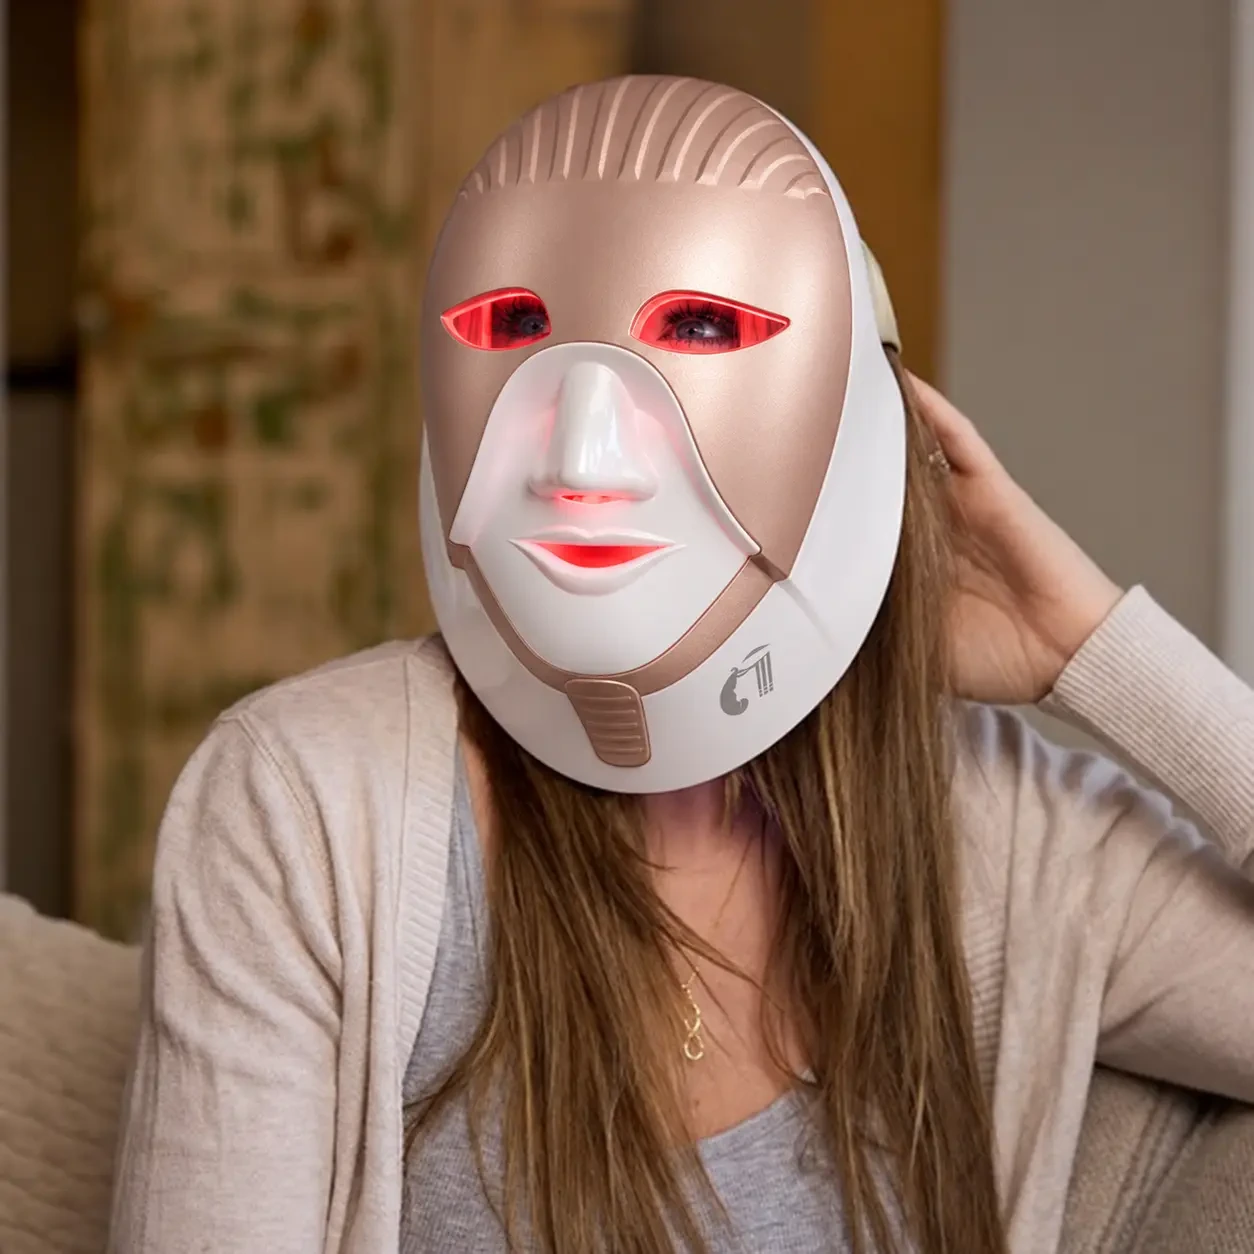
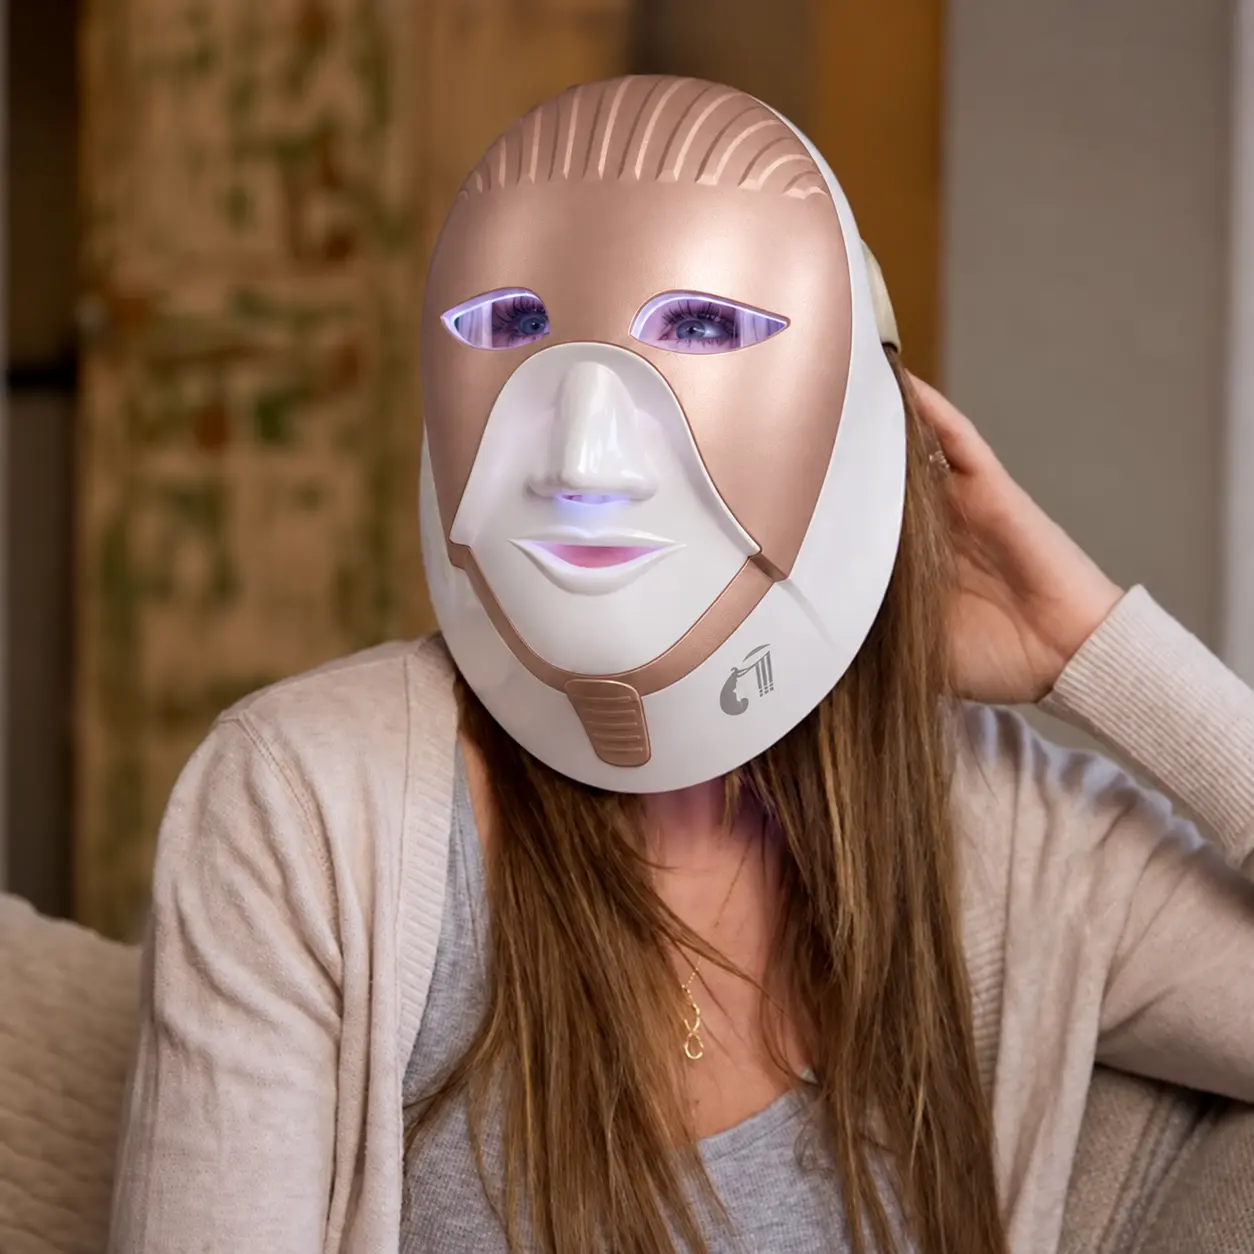
feat: add product components, data, and asset for LED mask showcase

diff --git a/src/data/products.ts b/src/data/products.ts
@@ -100,18 +100,8 @@ export const buudyMask: Product = {
       alt: "Buudy 7 Colour LED Face Mask worn at home in red light therapy mode for anti-ageing in the UK",
       badge: {
         title: "FULL FACE & NECK\nCOVERAGE",
-        sub: "Targeted firming & smoothing for jawline & neck",
+        sub: "Targeted firming & smoothing\nfor jawline & neck",
         position: "bottom-right",
-        theme: "white",
-      },
-    },
-    {
-      src: productAsset("buudy-7-colour-led-mask-with-free-red-light-torch-uk.webp"),
-      alt: "Buudy 7 Colour LED Face Mask with included complimentary Red Light Torch treatment UK",
-      badge: {
-        title: "FREE BUUDY\nLED TORCH",
-        sub: "£70 targeted red light device included free with your order",
-        position: "top-left",
         theme: "white",
       },
     },
@@ -124,17 +114,27 @@ export const buudyMask: Product = {
       alt: "Buudy 7 Colour LED Face Mask 7 clinical light wavelengths and modes video showcase UK",
       badge: {
         title: "7 CLINICAL\nWAVELENGTHS",
-        sub: "Complete spectrum for rejuvenation, clarity & glow",
+        sub: "Complete spectrum for\nrejuvenation, clarity & glow",
         position: "bottom-left",
         theme: "white",
       },
     },
     {
-      src: productAsset("07-buudy-led-mask-controller.webp"),
-      alt: "Buudy LED Mask tap controller",
+      src: productAsset("buudy-7-colour-led-mask-with-free-red-light-torch-uk.webp"),
+      alt: "Buudy 7 Colour LED Face Mask with included complimentary Red Light Torch treatment UK",
       badge: {
-        title: "SMART BUUDY\nAPP COMPANION",
-        sub: "Personalised guided routines & progress tracking",
+        title: "FREE BUUDY\nLED TORCH",
+        sub: "£70 targeted red light device\nincluded free with your order",
+        position: "top-left",
+        theme: "white",
+      },
+    },
+    {
+      src: productAsset("buudy_purple.jpeg"),
+      alt: "Buudy 7 Colour LED Face Mask with 192 high-density clinical LEDs across face and neck UK",
+      badge: {
+        title: "192 HIGH-DENSITY\nCLINICAL LEDS",
+        sub: "Maximum coverage & optical\npower across face & neck",
         position: "top-left",
         theme: "white",
       },
@@ -144,7 +144,7 @@ export const buudyMask: Product = {
       alt: "Buudy LED Mask side profile",
       badge: {
         title: "100% CORDLESS &\nPORTABLE",
-        sub: "Hands-free cordless design to read, relax & multitask",
+        sub: "Hands-free cordless design\nto read, relax & multitask",
         position: "bottom-left",
         theme: "white",
       },
@@ -154,17 +154,17 @@ export const buudyMask: Product = {
       alt: "Buudy 7 Colour LED Face Mask dermatologist recommended for skin rejuvenation in the UK",
       badge: {
         title: "DERMATOLOGIST\nRECOMMENDED",
-        sub: "Expert-approved non-invasive skincare for all skin types",
+        sub: "Expert-approved skincare\nfor all skin types",
         position: "bottom-right",
         theme: "white",
       },
     },
     {
-      src: productAsset("buudy_purple.jpeg"),
-      alt: "Buudy 7 Colour LED Face Mask with 192 high-density clinical LEDs across face and neck UK",
+      src: productAsset("07-buudy-led-mask-controller.webp"),
+      alt: "Buudy LED Mask tap controller",
       badge: {
-        title: "192 HIGH-DENSITY\nCLINICAL LEDS",
-        sub: "Maximum coverage & optical power across face & neck",
+        title: "SMART BUUDY\nAPP COMPANION",
+        sub: "Personalised guided routines\n& progress tracking",
         position: "top-left",
         theme: "white",
       },
@@ -178,7 +178,7 @@ export const buudyMask: Product = {
       alt: "Buudy LED Mask blue light acne mode",
       badge: {
         title: "415NM TARGETED\nBLUE LIGHT",
-        sub: "Purifies active blemishes & eliminates acne bacteria",
+        sub: "Purifies active blemishes\n& eliminates acne bacteria",
         position: "bottom-left",
         theme: "white",
       },
@@ -188,7 +188,7 @@ export const buudyMask: Product = {
       alt: "Buudy LED Mask packaging",
       badge: {
         title: "830NM DEEP NEAR\nINFRARED LIGHT",
-        sub: "Deep dermal penetration boosts collagen & elasticity",
+        sub: "Deep dermal penetration\nboosts collagen & elasticity",
         position: "top-left",
         theme: "white",
       },
@@ -206,7 +206,7 @@ export const buudyMask: Product = {
       alt: "Buudy LED Mask anti-ageing mode",
       badge: {
         title: "FAST 3-MIN\nTREATMENTS",
-        sub: "Green light helps fade dark spots & evens skin tone",
+        sub: "Green light helps fade dark\nspots & evens skin tone",
         position: "top-left",
         theme: "white",
       },
@@ -216,7 +216,7 @@ export const buudyMask: Product = {
       alt: "Buudy LED Mask results",
       badge: {
         title: "PROVEN CLINICAL\nRESULTS",
-        sub: "Noticeable collagen boost & radiant skin in 4 weeks",
+        sub: "Noticeable collagen boost\n& radiant skin in 4 weeks",
         position: "top-right",
         theme: "white",
       },
@@ -238,7 +238,7 @@ export const buudyMask: Product = {
       alt: "Buudy LED Mask starter kit",
       badge: {
         title: "SAFETY & CLINICALLY\nCERTIFIED",
-        sub: "CE, RoHS & FCC certified for safe everyday home use",
+        sub: "CE, RoHS & FCC certified\nfor safe everyday home use",
         position: "top-left",
         theme: "white",
       },
@@ -252,7 +252,7 @@ export const buudyMask: Product = {
       alt: "Buudy LED Mask front view",
       badge: {
         title: "633NM DEEP RED\nLIGHT THERAPY",
-        sub: "Stimulates natural collagen production & smooths fine lines",
+        sub: "Stimulates collagen production\n& smooths fine lines",
         position: "top-right",
         theme: "white",
       },

diff --git a/src/components/product/GiftBundle.tsx b/src/components/product/GiftBundle.tsx
@@ -8,6 +8,7 @@ import Lottie from "lottie-react";
 import loadingLottie from "@/components/cart/loading-lottie.json";
 import {
   BatteryCharging,
+  Clock,
   ShieldCheck,
   Sparkles,
   Truck,
@@ -233,18 +234,6 @@ export function GiftBundle({ product }: { product: Product }) {
           currency={product.currency}
           priceCents={product.priceCents}
         />
-        <div className="flex flex-nowrap items-center gap-x-1 sm:gap-x-1.5 text-[9.5px] sm:text-[13px] text-[var(--muted)]">
-          <span className="whitespace-nowrap tracking-tight sm:tracking-normal">
-            or{" "}
-            <strong className="buudy-display text-[10px] sm:text-[14px] font-medium text-[var(--plum)]">
-              4
-            </strong>{" "}
-            interest-free payments of{" "}
-            <strong className="buudy-display text-[10px] sm:text-[14px] font-semibold text-[var(--plum)]">
-              {formatMoney(product.priceCents / 4, product.currency)}
-            </strong>
-          </span>
-        </div>
       </div>
 
       {/* Premium Compact Bullet Points List */}
@@ -265,35 +254,16 @@ export function GiftBundle({ product }: { product: Product }) {
         })}
       </ul>
 
-      <div className="relative mt-4 rounded-2xl border border-[rgba(58,31,61,.15)] bg-[rgba(247,241,232,.55)] p-3 sm:p-5">
-        <div className="flex items-center justify-between gap-2 sm:gap-5 pr-7 sm:pr-8">
-          <div>
-            <div className="flex items-center gap-1.5 sm:gap-2">
-              {deliveryIconData && (
-                <div className="w-5 h-5 sm:w-7 sm:h-7 flex-shrink-0 flex items-center justify-center">
-                  <Lottie animationData={deliveryIconData} loop={true} />
-                </div>
-              )}
-              <p className="buudy-eyebrow text-[var(--gold)] m-0 leading-none flex items-center h-5 sm:h-7 font-bold text-[10px] sm:text-xs">
-                FREE DELIVERY
-              </p>
-            </div>
-            <p className="buudy-display mt-1.5 text-base sm:text-2xl text-[var(--plum)] font-normal leading-none whitespace-nowrap">
-              {deliveryDate || "soon"}
-            </p>
-          </div>
-          <div className="text-right">
-            <p className="buudy-eyebrow text-[var(--gold)] whitespace-nowrap text-[9px] sm:text-[11px] tracking-tight sm:tracking-normal">
-              {hasGifts ? "ORDER WITHIN" : "ORDER TODAY"}
-            </p>
-            <p className="buudy-display mt-1.5 text-xl sm:text-[2.2rem] font-normal text-[var(--plum)] leading-none">
-              {timer}
-            </p>
-          </div>
+      <div className="relative mt-4 flex items-center justify-between gap-2.5 rounded-xl border border-[rgba(58,31,61,.15)] bg-[rgba(247,241,232,.55)] px-3.5 py-2.5 text-xs sm:text-[13.5px] text-[var(--plum)]">
+        <div className="flex items-center gap-2 min-w-0">
+          <Clock className="h-4 w-4 shrink-0 text-[var(--gold)]" />
+          <p className="m-0 leading-snug">
+            Free delivery: Order within <span className="font-semibold text-[var(--plum)]">{timer}</span> to receive it by <span className="font-semibold text-[var(--plum)]">{deliveryDate || "soon"}</span>
+          </p>
         </div>
 
-        {/* Question mark info button on top right */}
-        <div className="absolute top-2.5 right-2.5 sm:top-3 sm:right-3.5 z-20" ref={shippingTooltipRef}>
+        {/* Question mark info button */}
+        <div className="relative shrink-0" ref={shippingTooltipRef}>
           <button
             type="button"
             onClick={(e) => {
@@ -302,15 +272,14 @@ export function GiftBundle({ product }: { product: Product }) {
             }}
             aria-label="Shipping information"
             aria-expanded={showShippingInfo}
-            style={{ fontSize: "8px", lineHeight: 1 }}
-            className="flex h-3.5 w-3.5 items-center justify-center rounded-full border border-[var(--gold)] bg-transparent font-medium text-[var(--gold)] transition hover:opacity-80 active:scale-95 cursor-pointer"
+            className="flex h-4 w-4 items-center justify-center rounded-full border border-[var(--gold)] bg-transparent text-[9.5px] font-medium text-[var(--gold)] transition hover:opacity-80 active:scale-95 cursor-pointer"
           >
             ?
           </button>
 
           {showShippingInfo && (
             <div
-              className="absolute right-0 top-full mt-2 z-40 w-64 sm:w-72 rounded-xl border border-[rgba(58,31,61,.16)] bg-[var(--card)] p-3.5 shadow-xl text-left text-xs leading-relaxed text-[var(--plum)]"
+              className="absolute right-0 bottom-full mb-2 z-40 w-64 sm:w-72 rounded-xl border border-[rgba(58,31,61,.16)] bg-[var(--card)] p-3.5 shadow-xl text-left text-xs leading-relaxed text-[var(--plum)]"
               onClick={(e) => e.stopPropagation()}
             >
               <div className="flex items-center justify-between gap-2 mb-1.5">

diff --git a/src/components/product/OmniluxProductGallery.tsx b/src/components/product/OmniluxProductGallery.tsx
@@ -586,9 +586,9 @@ export function OmniluxProductGallery({
           animation: buudyBadgeSlideInRight 0.65s cubic-bezier(0.16, 1, 0.3, 1) 0.08s both;
         }
         .buudy-gallery-badge__title {
-          font-family: var(--font-inter), 'Inter', -apple-system, BlinkMacSystemFont, sans-serif;
+          font-family: var(--font-fraunces), var(--font-serif), ui-serif, Georgia, serif;
           font-size: clamp(13.5px, 1.6vw, 16.5px);
-          font-weight: 800;
+          font-weight: 700;
           line-height: 1.15;
           letter-spacing: 0.01em;
           text-transform: uppercase;
@@ -1043,51 +1043,6 @@ export function OmniluxProductGallery({
               )}
             </div>
           </div>
-
-          {/* 3 OPTIONS / TABS SELECTOR ROW DIRECTLY BELOW MAIN IMAGE (Beige/Gold Star Dot) */}
-          <div className="omni-tabs-row" role="tablist" aria-label="Product Media Options">
-            {/* TAB 1: GALLERY */}
-            <button
-              type="button"
-              role="tab"
-              aria-selected={activeTab === "gallery"}
-              className={`omni-tab-btn ${
-                activeTab === "gallery" ? "omni-tab-btn--active" : ""
-              }`}
-              onClick={() => handleTabClick("gallery")}
-            >
-              {activeTab === "gallery" && <span className="omni-tab-indicator" />}
-              Gallery
-            </button>
-
-            {/* TAB 2: BEFORE & AFTER */}
-            <button
-              type="button"
-              role="tab"
-              aria-selected={activeTab === "before-after"}
-              className={`omni-tab-btn ${
-                activeTab === "before-after" ? "omni-tab-btn--active" : ""
-              }`}
-              onClick={() => handleTabClick("before-after")}
-            >
-              {activeTab === "before-after" && <span className="omni-tab-indicator" />}
-              Before & After
-            </button>
-
-            {/* TAB 3: VIDEO */}
-            <button
-              type="button"
-              role="tab"
-              aria-selected={activeTab === "video"}
-              className={`omni-tab-btn ${
-                activeTab === "video" ? "omni-tab-btn--active" : ""
-              }`}
-              onClick={() => handleTabClick("video")}
-            >
-              {activeTab === "video" && <span className="omni-tab-indicator" />}
-              Video
-            </button>
-          </div>
         </div>
       </div>
 
@@ -1203,7 +1158,16 @@ function GalleryImageBadge({
           </span>
         ))}
       </span>
-      {badge.sub && <span className="buudy-gallery-badge__sub">{badge.sub}</span>}
+      {badge.sub && (
+        <span className="buudy-gallery-badge__sub">
+          {badge.sub.split("\n").map((line, idx, arr) => (
+            <span key={idx}>
+              {line}
+              {idx < arr.length - 1 && <br />}
+            </span>
+          ))}
+        </span>
+      )}
     </div>
   );
 }

diff --git a/src/components/product/WavelengthSelector.tsx b/src/components/product/WavelengthSelector.tsx
@@ -69,15 +69,15 @@ export function WavelengthSelector() {
                         boxShadow: isActive ? `0 0 10px ${wavelength.color}` : "none",
                       }}
                     />
-                    <span className="buudy-display w-20 uppercase text-[rgba(247,241,232,.6)]">
+                    <span className="buudy-mono w-20 uppercase text-[rgba(247,241,232,.6)] text-xs tracking-wider">
                       {wavelength.nm}
                     </span>
-                    <span className={`buudy-display text-xl transition-colors duration-300 ${
+                    <span className={`font-sans text-base sm:text-lg font-bold uppercase tracking-wide transition-colors duration-300 ${
                       isActive ? "text-[var(--gold)]" : "text-[var(--cream)] group-hover:text-[var(--gold)]"
                     }`}>
                       {wavelength.name}
                     </span>
-                    <span className="buudy-display ml-auto hidden text-sm text-[rgba(247,241,232,.6)] sm:block">
+                    <span className="font-sans ml-auto hidden text-xs sm:text-sm font-normal text-[rgba(247,241,232,.65)] sm:block">
                       {wavelength.description}
                     </span>
                   </button>
@@ -86,7 +86,7 @@ export function WavelengthSelector() {
                       isActive ? "max-h-40 opacity-100" : "max-h-0 opacity-0"
                     }`}
                   >
-                    <p className="buudy-display px-4 pb-3 pl-[3.25rem] text-sm leading-relaxed text-[rgba(247,241,232,.7)]">
+                    <p className="font-sans px-4 pb-3 pl-[3.25rem] text-xs leading-relaxed text-[rgba(247,241,232,.75)]">
                       {wavelength.description}
                     </p>
                   </div>

diff --git a/src/components/product/ProductGallery.tsx b/src/components/product/ProductGallery.tsx
@@ -206,10 +206,10 @@ export function ProductGallery({
           padding: 0;
         }
         .buudy-gallery-badge__title {
-          font-family: var(--font-inter), 'Inter', -apple-system, BlinkMacSystemFont, 'Segoe UI', Roboto, sans-serif;
-          font-size: clamp(16px, 2.2vw, 20px);
-          font-weight: 800;
-          line-height: 1.18;
+          font-family: var(--font-fraunces), var(--font-serif), ui-serif, Georgia, serif;
+          font-size: clamp(15.5px, 2.1vw, 19.5px);
+          font-weight: 700;
+          line-height: 1.15;
           letter-spacing: 0.01em;
           text-transform: uppercase;
           color: #111111;
@@ -644,7 +644,14 @@ function GalleryImageBadge({
         </span>
       </div>
       {badge.sub && (
-        <span className="buudy-gallery-badge__sub">{badge.sub}</span>
+        <span className="buudy-gallery-badge__sub">
+          {badge.sub.split("\n").map((line, idx, arr) => (
+            <span key={idx}>
+              {line}
+              {idx < arr.length - 1 && <br />}
+            </span>
+          ))}
+        </span>
       )}
     </div>
   );

diff --git a/src/components/product/ProductHero.tsx b/src/components/product/ProductHero.tsx
@@ -25,7 +25,7 @@ export function ProductHero({
       <div
         className={`buudy-wrap relative z-10 grid gap-8 [overflow-anchor:none] ${
           galleryVariant === "omnilux"
-            ? "lg:grid-cols-[minmax(0,0.96fr)_minmax(0,1fr)] lg:items-start lg:gap-8 xl:grid-cols-[1.02fr_1fr] xl:gap-12"
+            ? "lg:grid-cols-[minmax(0,1.08fr)_minmax(0,1fr)] lg:items-start lg:gap-8 xl:grid-cols-[1.14fr_1fr] xl:gap-12"
             : "lg:grid-cols-[minmax(0,0.92fr)_minmax(0,1fr)] lg:items-start lg:gap-8 xl:grid-cols-[1.05fr_1fr] xl:gap-16"
         }`}
       >
